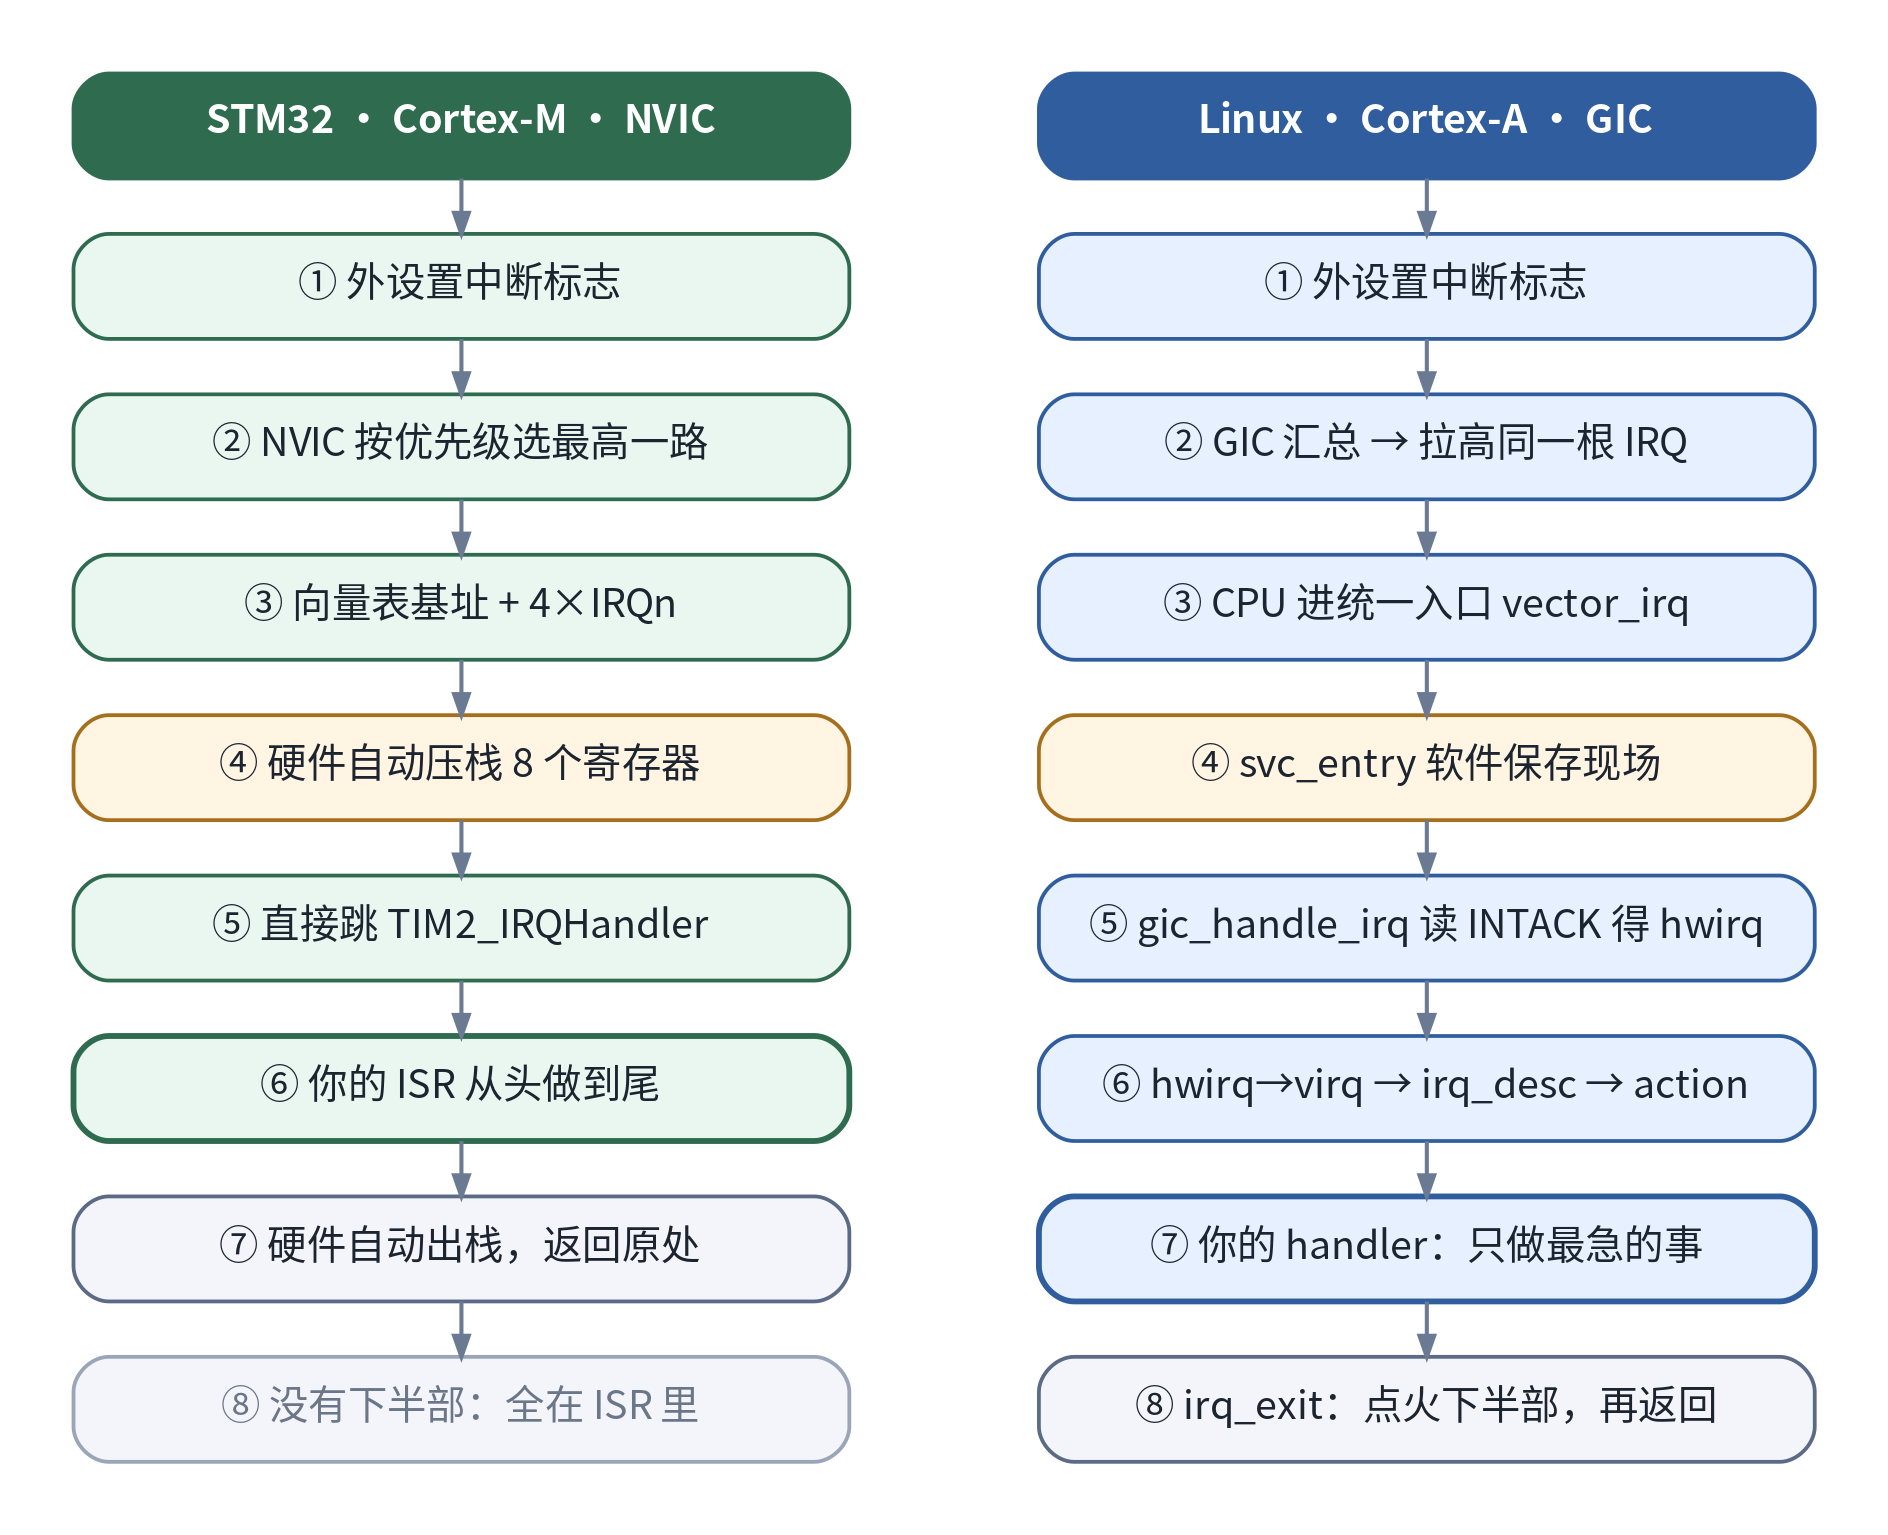
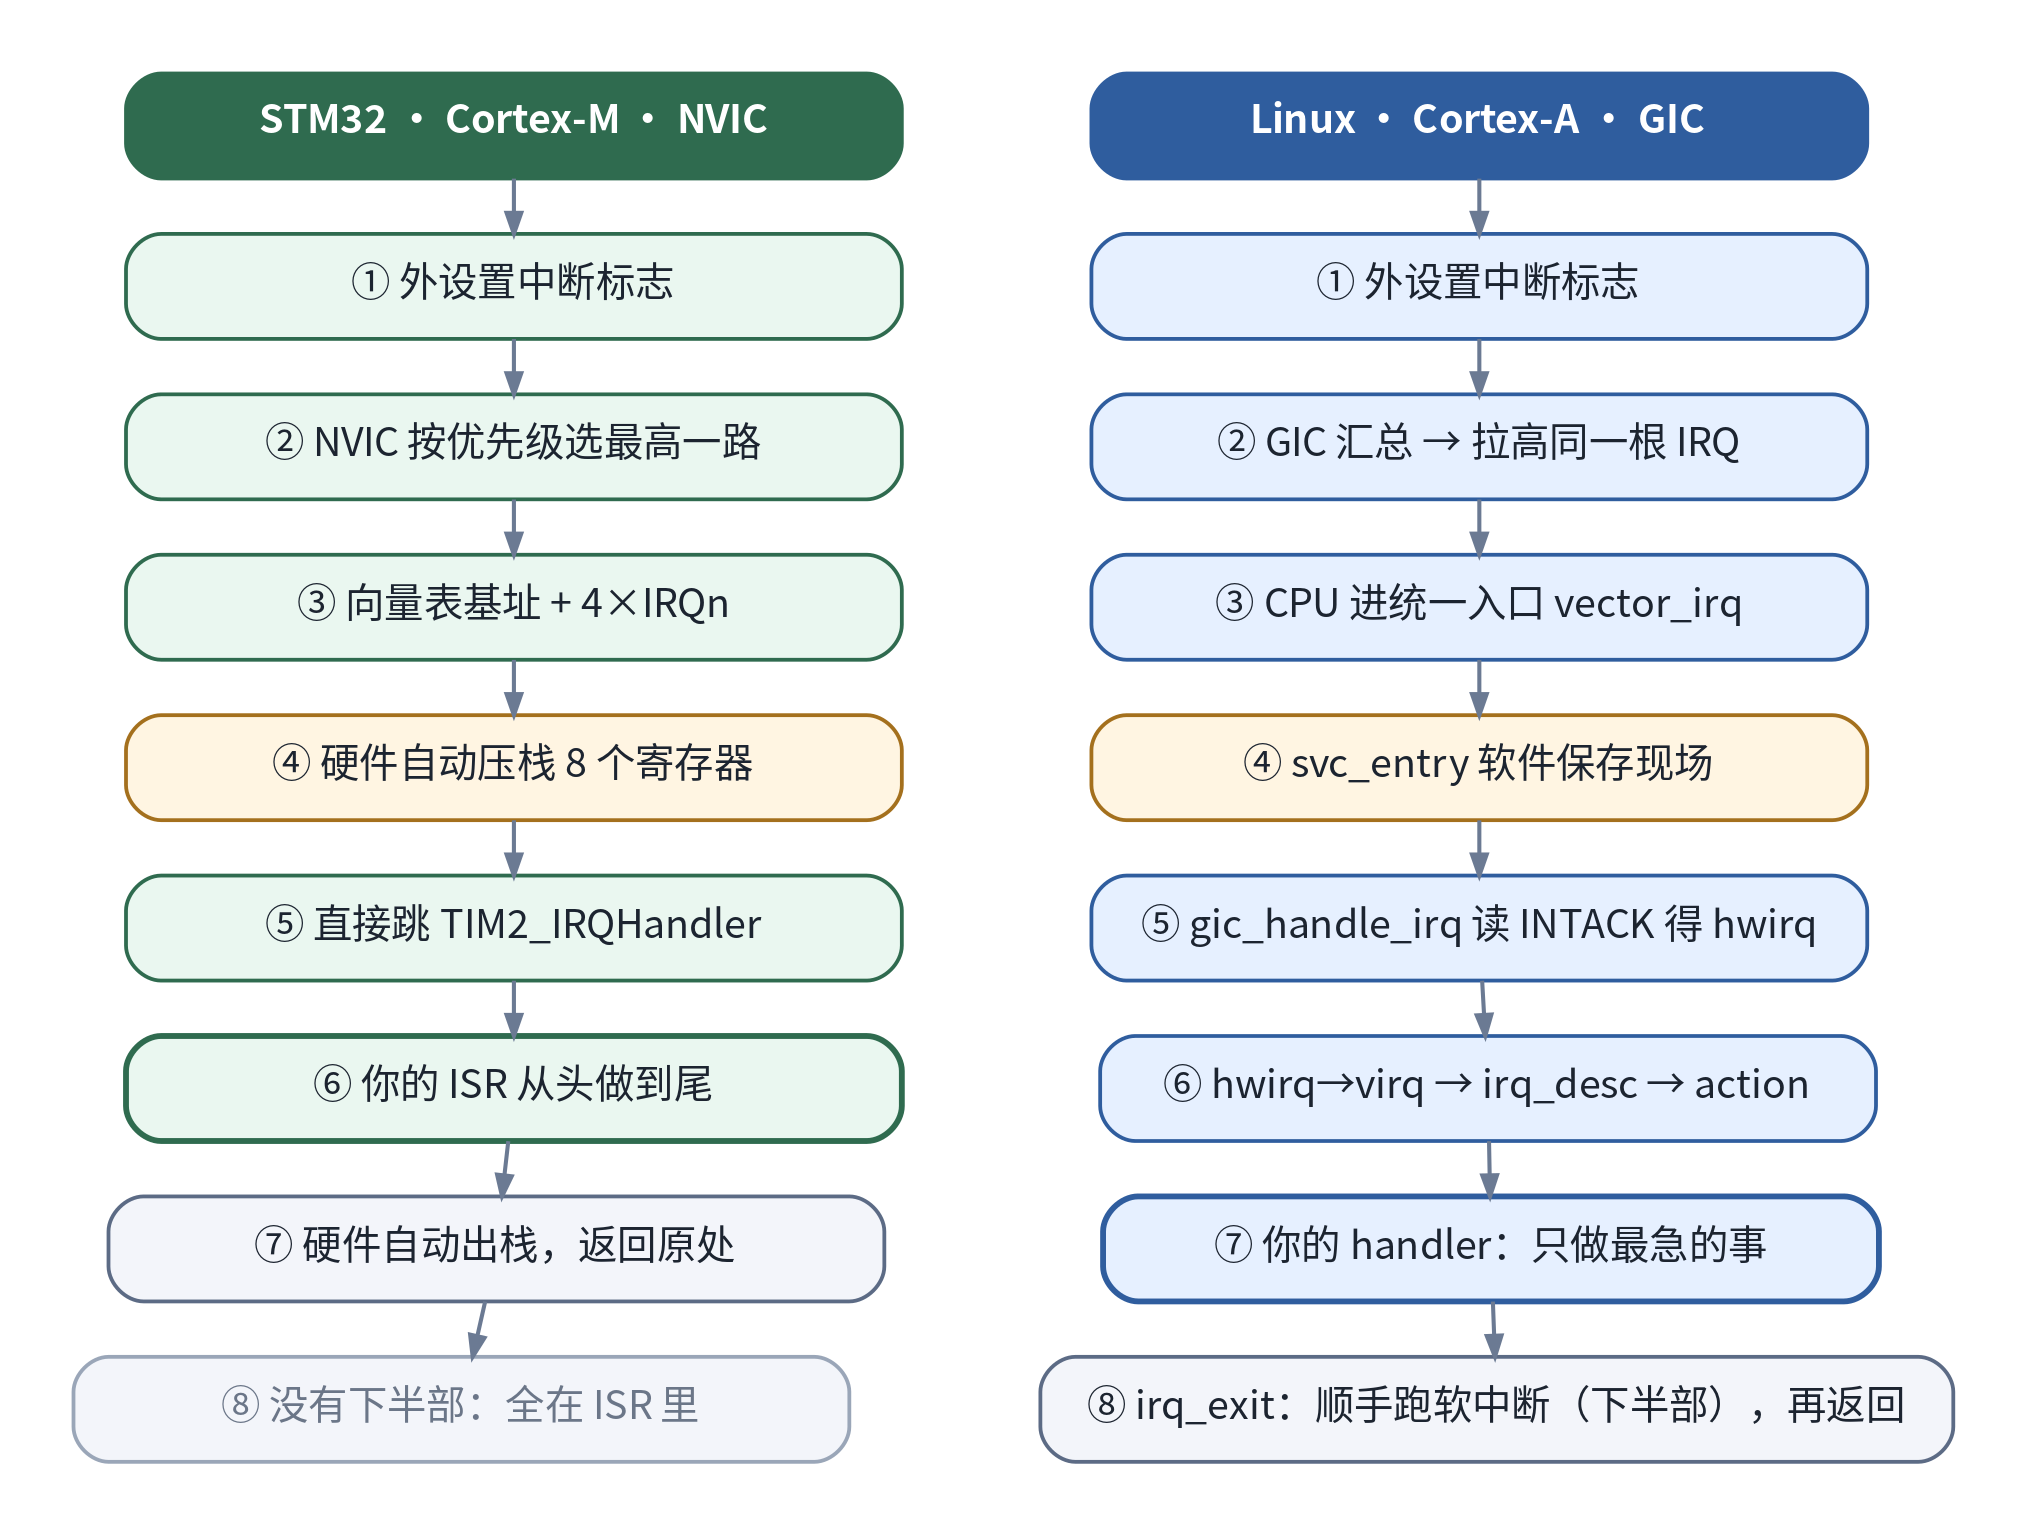
docs: 对比图与 04 章改用"跑软中断"替代生硬的"点火"表述

diff --git a/02-内核核心机制/KERNEL-04-中断-Linux中断.md b/02-内核核心机制/KERNEL-04-中断-Linux中断.md
@@ -188,7 +188,7 @@ void irq_exit(void)
 }
 ```
 
-一句话概括这三个函数的分工：`__handle_domain_irq` **翻译**（hwirq→virq）、`generic_handle_irq` **分发**（找到 irq_desc 和对应的 flow handler）、`handle_irq_event` **执行**（挨个调用 action）。`irq_exit` 则顺手把下半部点火。
+一句话概括这三个函数的分工：`__handle_domain_irq` **翻译**（hwirq→virq）、`generic_handle_irq` **分发**（找到 irq_desc 和对应的 flow handler）、`handle_irq_event` **执行**（挨个调用 action）。`irq_exit` 则顺手在这里把软中断（下半部）跑掉。
 
 ## 七、disable_irq 的坑
 
